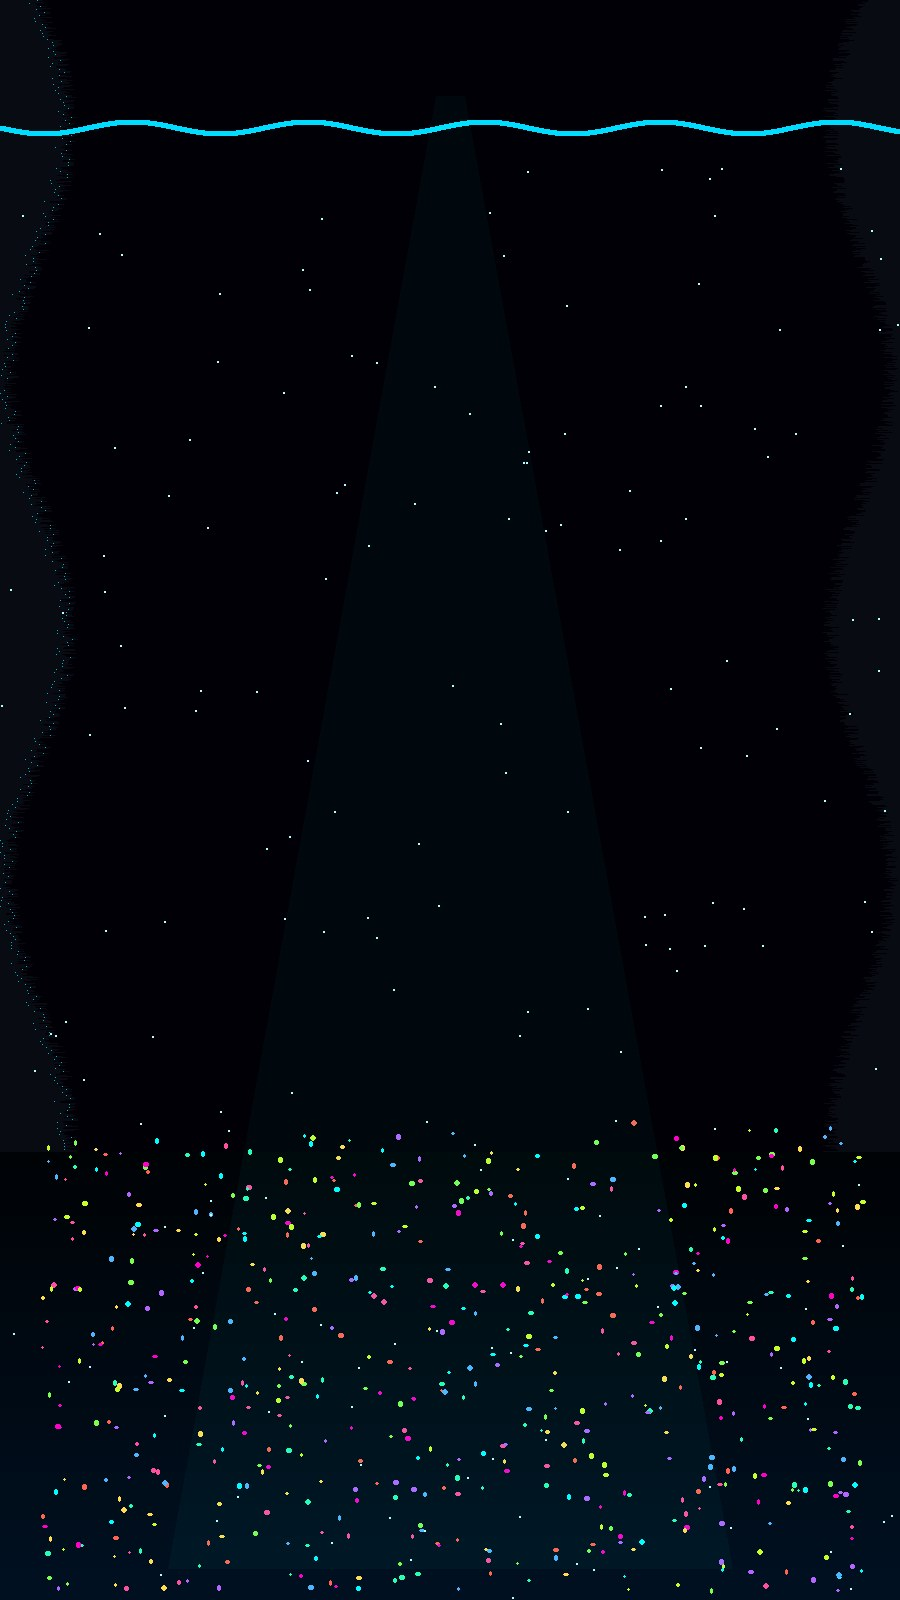
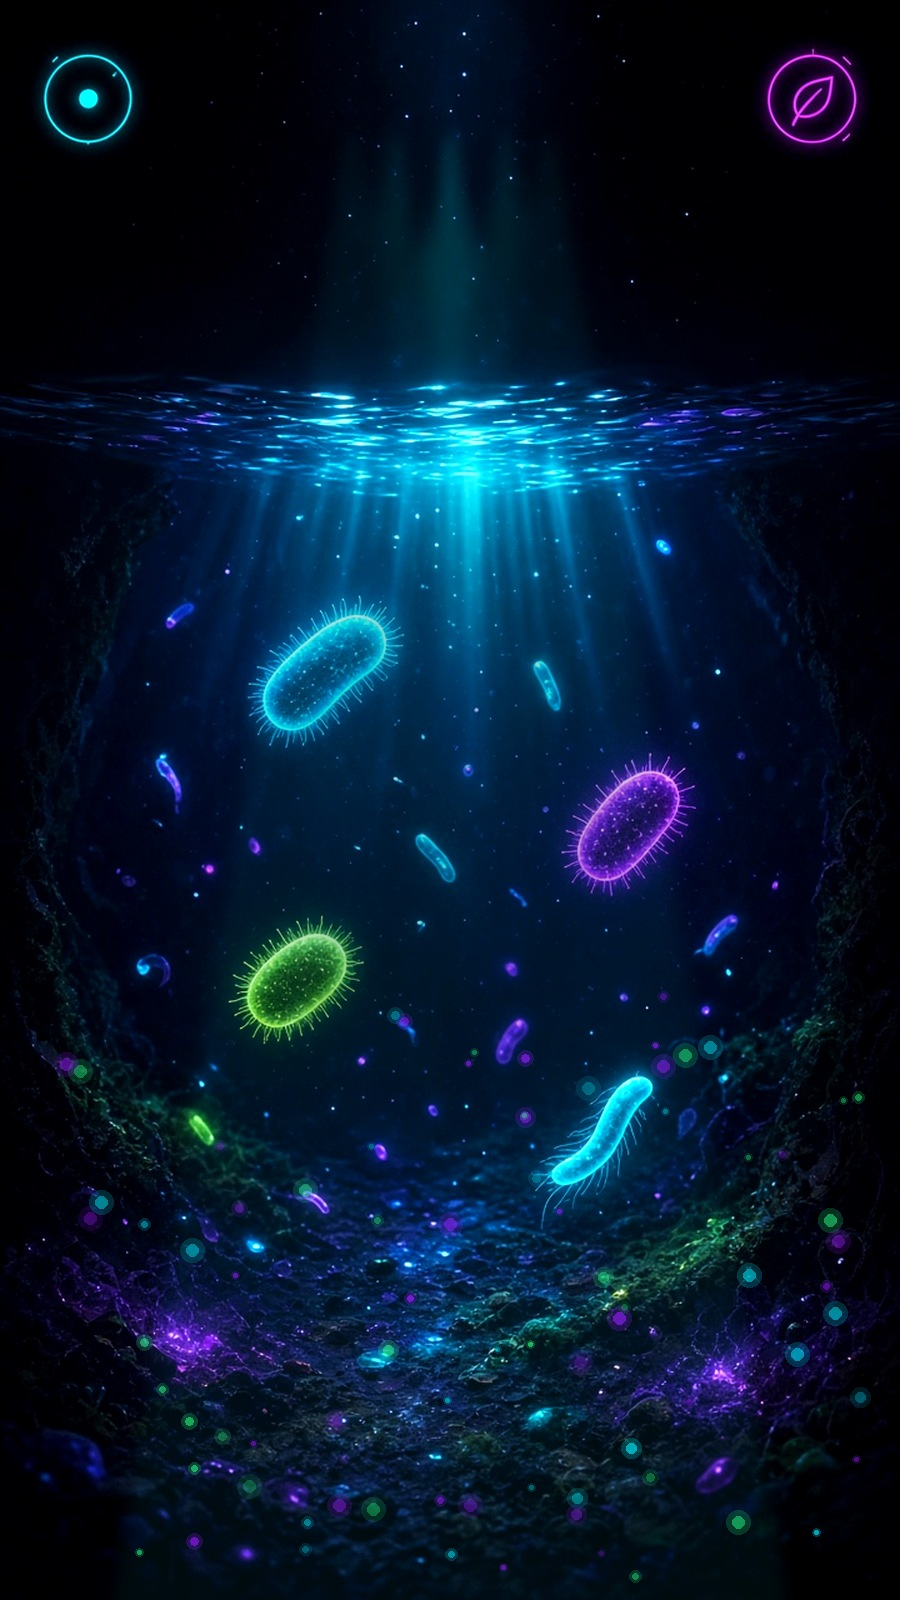
v29 neon-bio: pond bed toward concept 03 (bg+drawNeonPondBed); LEAD; no deploy

diff --git a/.04-Src/js/theme_visuals.js b/.04-Src/js/theme_visuals.js
@@ -208,6 +208,7 @@
     var W = cv.width, H = cv.height;
     ctx.save();
     if (id === "neon-bio") {
+      try { drawNeonPondBed(); } catch (eBed) {}
       ctx.globalCompositeOperation = "source-over";
       var sky = ctx.createLinearGradient(0, 0, 0, H * 0.42);
       sky.addColorStop(0, "rgba(0,0,0,0.98)");
@@ -328,6 +329,32 @@
     }
     ctx.restore();
   }
+
+  var _neonBed=null,_neonBedTried=false,_neonBedFail=false;
+  function drawNeonPondBed() {
+    if (_neonBedFail) return;
+    if (!_neonBed) {
+      if (_neonBedTried) return;
+      _neonBedTried=true;
+      try {
+        var im=new Image();
+        im.onload=function(){ _neonBed=im; };
+        im.onerror=function(){
+          try { im.onerror=function(){ _neonBedFail=true; }; im.src="assets/themes/neon-bio/pond/neon_pond_bg.jpg"; }
+          catch(e2){ _neonBedFail=true; }
+        };
+        im.src="assets/themes/neon-bio/neon_pond_bg.jpg";
+      } catch(e) { _neonBedFail=true; return; }
+      return;
+    }
+    if (typeof ctx==="undefined" || !cv) return;
+    ctx.save();
+    ctx.globalCompositeOperation="source-over";
+    ctx.globalAlpha=0.78;
+    ctx.drawImage(_neonBed, 0, 0, cv.width, cv.height);
+    ctx.restore();
+  }
+
   w.igsThemePondPostFX = postFX;
 
   var SPRITE_BASE = "assets/bioicons/swiss_sprites/";

diff --git a/01-Architecture/03-Analysis/LEAD-LOG-v29.md b/01-Architecture/03-Analysis/LEAD-LOG-v29.md
@@ -98,3 +98,9 @@
 - theme_neon_draw.js + theme_visuals ensureNeonDraw/wiki species thumbs; HUD css; Worker+theme-stats all 7; tests ready; NO deploy
 - box sides /workspace/v29all3/side_{menu,pond,bestiary}_neon-bio.jpg
 
+
+## 2026-11-04 02:25 Asia/Jerusalem — neon-bio pond → concept 03
+- neon_pond_bg.jpg rebuilt (concept env + god-rays + cavern walls + biolum bed); theme_visuals drawNeonPondBed alpha 0.78 + path fallback
+- box sides: /workspace/v29all3/side_pond_neon-bio.jpg + pond_neon-bio_dedicated.jpg (v3)
+- bestiary species names already real; NO deploy
+- note: Windows Shell hung — commit via GitHub API; local Obsidian tree may lag until pull
